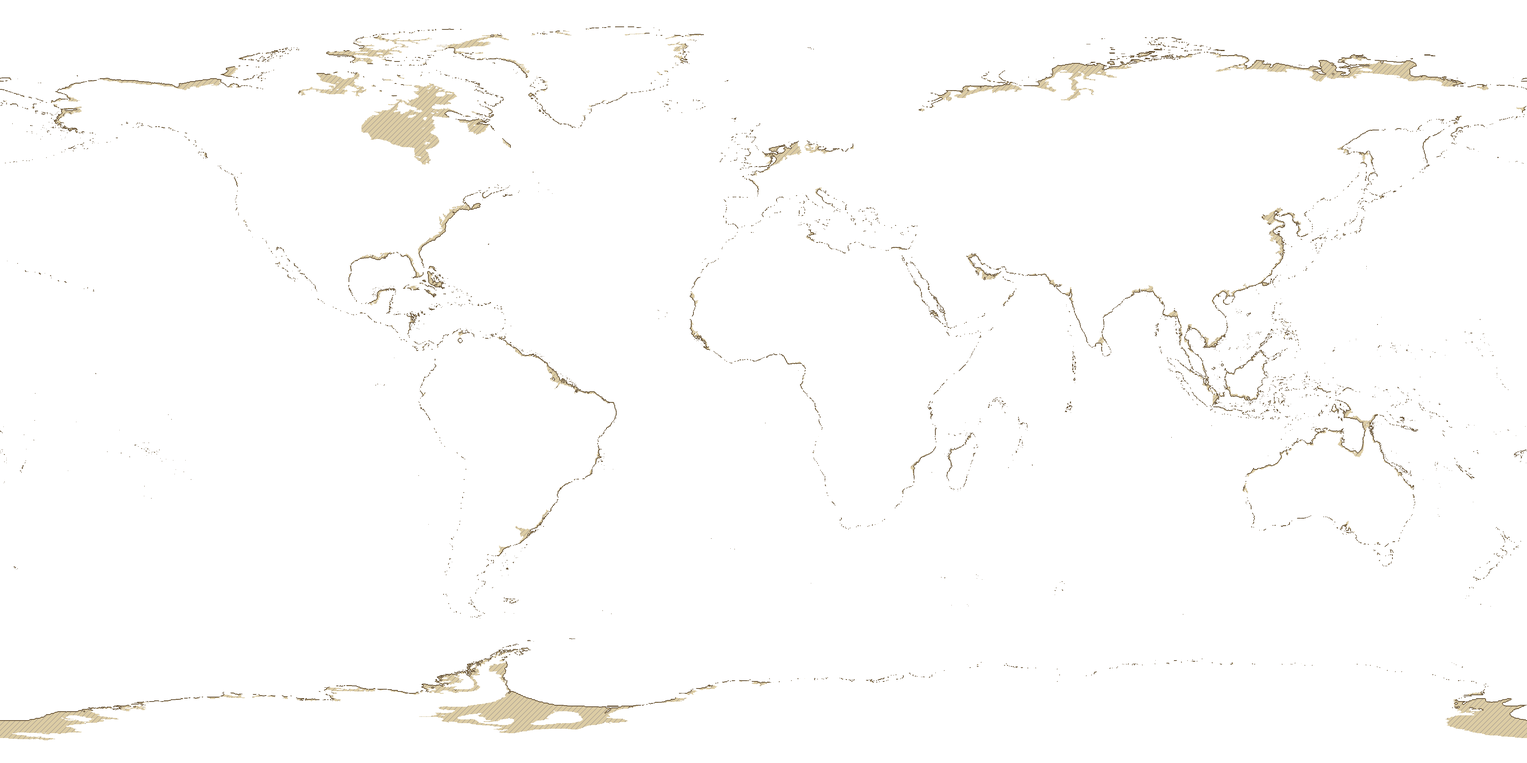
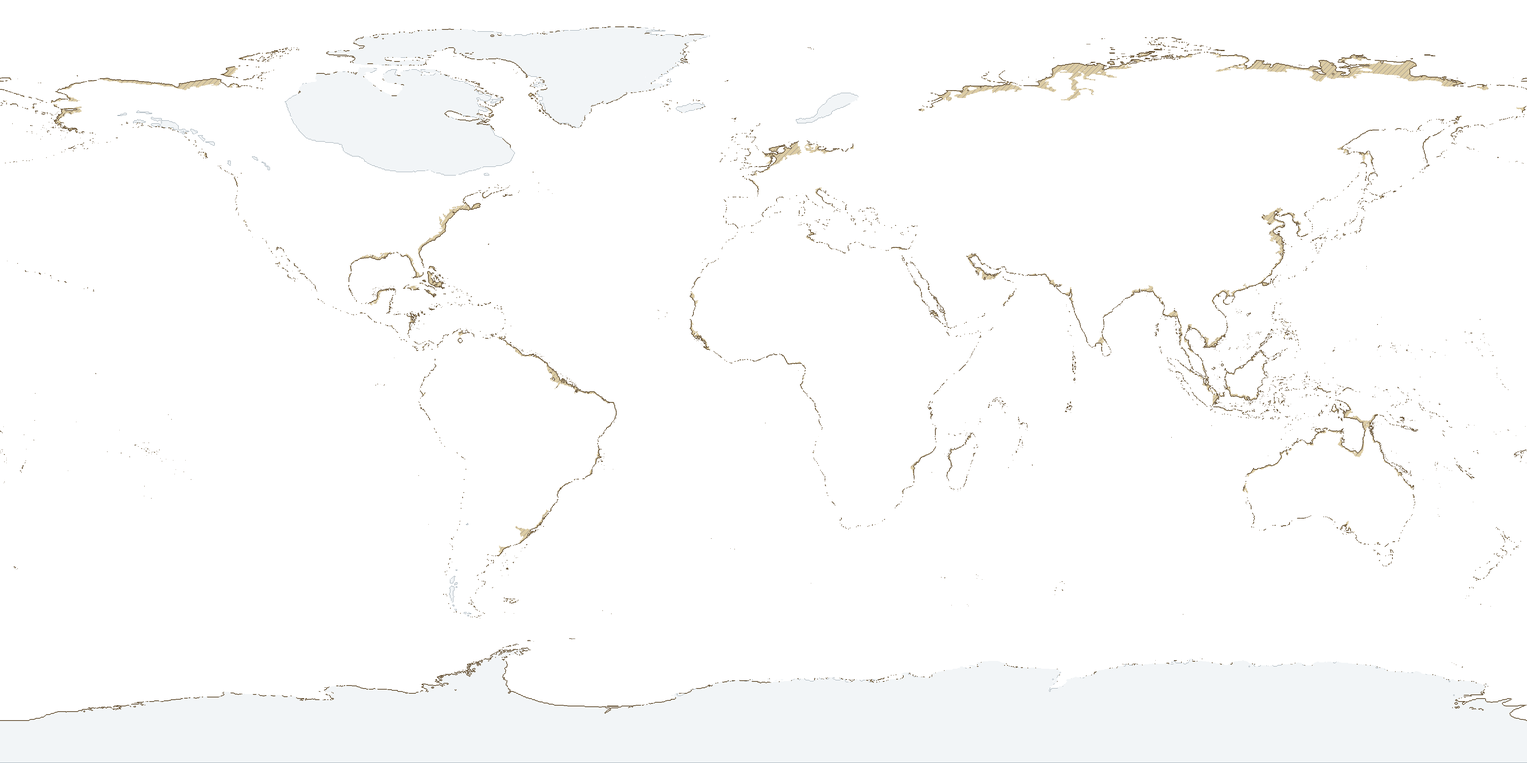
Istidens kust: inlandsisen ritas för sig ur PaleoMIST (#1564) (#1586)
* Istidens kust: inlandsisen ritas för sig (#1564)

Enligt DasKrokodils beslut på #1564 ritas inlandsisen nu i en egen ljus,
nästan vit stil utan snedstreck, ur PaleoMIST 1.0:s istjocklek
(PANGAEA.905800, CC BY 4.0, samma källa som tidigare). Wilmes rutnät har
inget isfält. Varianten utan a1 valdes eftersom den stämmer med Wilmes
hav i Hudson Bay för 42 500 och 40 000 år sedan; texten säger det öppet.

- tools/istidens_kust.py: --ice, hämtar bara isfilen ur zip-filen med
  Range-anrop och kontrollerar licensen; nio bilder ombyggda (41-64 kB)
- data/bildlager.json: fältet keys (rad för torrlagt och för is på fem
  språk), ny caveat och note utan "land eller is"
- teckenförklaringen, schema, validering, CSS, tester och dokumentation
- docs/beslut/2026-11-14-inlandsis-i-istidens-kust.md

Claude-Session: https://claude.ai/code/session_019xNoaDfQRcbY1RwQad4teA

* Istidens kust: rättelser efter granskningen av inlandsisen (#1564)

- caveat på fem språk: den andra varianten (isen kvar över Hudson Bay,
  ner till Dakota) och att linjerna i Människans spridning kan gå över
  isen och visar riktning, inte väg
- ny källa gowan-2021-paleomist-kartor (Zenodo 4559963, CC BY 4.0) i
  sources.json, skivorna och README; licensmanifesten omgjorda
- beslutsfilen: hänvisning till Zenodo 4559963, h5py godkänt av
  DasKrokodil 2026-11-14, Weddell- och Rosshavets inre delar
- verktyget anger paketen numpy, Pillow och h5py i beskrivning och hjälptext
[…]

diff --git a/js/ui/legend.js b/js/ui/legend.js
@@ -104,7 +104,7 @@ export class ReligionLegend {
    * discovery (upptäcktsvyn, #101) = { perspective, credit, sources: [{ title, url }], coverage } eller null.
    * spread (människans spridning, #1094) = { items: [{ kind, certainty, color, title, summary, note, sources }] } eller null;
    * listan är också kartans textalternativ (#1106).
-   * images (bildlagren, #1096) = [{ id, title, text, sources: [{ title, url }] }] eller null: skivor med en text om
+   * images (bildlagren, #1096) = [{ id, title, text, keys: [{ swatch, text }], sources: [{ title, url }] }] eller null: skivor med en text om
    * osäkerheten, till exempel istidens kust, som annars bara syns som färg.
    * Finns inget att förklara döljs rutan.
    */
@@ -148,10 +148,12 @@ export class ReligionLegend {
     }).join('')}</ul></div>`;
     // Bildlagren (#1096): ett tecken som på kartan (ljus yta med snedstreck och mörk kant), osäkerheten i text och källorna.
     // När bara bildlagret förklaras står skivans rubrik i knappen (så att "modell" syns hopfälld i mobil) och upprepas inte.
-    const imagesHtml = !images ? '' : images.map(n => `<div class="rl-images" data-image-note="${esc(n.id)}">
-      ${n.title === title ? '' : `<p class="rl-note rl-row"><span class="swatch rl-shelf" aria-hidden="true"></span><strong>${esc(n.title)}</strong></p>`}
-      <p class="rl-image-text">${n.title === title ? '<span class="swatch rl-shelf" aria-hidden="true"></span> ' : ''}${esc(n.text)}${n.sources.length ? ` ${esc(ui('legend.spreadSources'))} ${
-        n.sources.map((src, k) => `<a class="rl-spread-src" href="${esc(src.url)}" target="_blank" rel="noopener noreferrer">${k + 1}<span class="sr-only"> ${esc(src.title)} ${esc(ui('legend.newTab'))}</span></a>`).join(', ')}.` : ''}</p></div>`).join('');
+    // Har raden keys (#1564) står ett tecken per ytstil på egen rad, och rubriken och texten står utan tecken.
+    const imagesHtml = !images ? '' : images.map(n => { const keyed = !!n.keys?.length; return `<div class="rl-images" data-image-note="${esc(n.id)}">
+      ${n.title === title ? '' : `<p class="rl-note rl-row">${keyed ? '' : '<span class="swatch rl-shelf" aria-hidden="true"></span>'}<strong>${esc(n.title)}</strong></p>`}
+      ${keyed ? n.keys.map(k => `<p class="rl-note rl-row" data-image-key="${esc(k.swatch)}"><span class="swatch rl-${esc(k.swatch)}" aria-hidden="true"></span>${esc(k.text)}</p>`).join('') : ''}
+      <p class="rl-image-text">${n.title === title && !keyed ? '<span class="swatch rl-shelf" aria-hidden="true"></span> ' : ''}${esc(n.text)}${n.sources.length ? ` ${esc(ui('legend.spreadSources'))} ${
+        n.sources.map((src, k) => `<a class="rl-spread-src" href="${esc(src.url)}" target="_blank" rel="noopener noreferrer">${k + 1}<span class="sr-only"> ${esc(src.title)} ${esc(ui('legend.newTab'))}</span></a>`).join(', ')}.` : ''}</p></div>`; }).join('');
     // Vad symbolerna betyder (#271)
     const symbolsHtml = !items.length ? '' : `<p class="rl-note rl-sym-note">${esc(ui('legend.symbolsNote'))}</p>`;
     // Faktarutan på begäran (#308), när någon religion som syns har en

diff --git a/css/style.css b/css/style.css
@@ -17,6 +17,8 @@
   --land: #c8b48a;
   --shelf: #d6c496;         /* istidens kust (#1096): torrlagd yta, samma ton som bilderna i images/lager/istidens-kust-*.webp */
   --shelf-ink: #503a19;     /* istidens kust: snedstreck och kustlinje */
+  --ice: #f1f4f6;           /* istidens kust (#1564): inlandsis i modellen, samma ton som i bilderna */
+  --ice-edge: #788a96;      /* istidens kust: isens kant mot isfritt land */
   --danger: #e0675a;
   --ok: #8fc48e;
   --medal: #10202c;        /* markörernas botten (#242), samma som GROUND i layers/events.js */
@@ -1799,6 +1801,7 @@ details.used-by summary:hover { color: var(--parchment); }
 .religion-legend .rl-image-text { display: block; margin: 3px 0 0; font: 400 12px/1.4 var(--f-body); color: var(--parchment-dim); }
 .religion-legend .rl-image-text .swatch { display: inline-block; vertical-align: -1px; }
 .religion-legend .rl-shelf { border-bottom: 2px solid var(--shelf-ink); box-sizing: border-box; background: repeating-linear-gradient(45deg, var(--shelf-ink) 0 1.2px, var(--shelf) 1.2px 5px); }
+.religion-legend .rl-ice { border: 1px solid var(--ice-edge); box-sizing: border-box; background: var(--ice); }
 .religion-legend .rl-fade { display: block; margin-top: 6px; padding-top: 4px; border-top: 1px solid var(--line); }
 .religion-legend .rl-fade .link-btn { font: inherit; padding: 0; }
 .religion-legend .rl-body > .rl-fade:first-child { margin-top: 0; padding-top: 0; border-top: 0; }

diff --git a/js/layers/images.js b/js/layers/images.js
@@ -44,6 +44,8 @@ export function boundsRect(bounds, W, H) {
 export function imageNotes(built, srcById = {}) {
   return built.filter(b => b.layer.active?.caveat).map(({ row, layer: { active: x } }) => ({
     id: row.id, title: t(x.title ?? row.name), text: t(x.caveat),
+    // Radens tecken (#1564): en rad per ytstil i bilden, till exempel torrlagt land och inlandsis
+    keys: (row.keys ?? []).map(k => ({ swatch: k.swatch, text: t(k.text) })),
     sources: (x.sources ?? []).map(id => srcById[id]).filter(Boolean).map(src => ({ title: src.title, url: src.url })),
   }));
 }

diff --git a/tools/istidens_kust.py b/tools/istidens_kust.py
@@ -8,24 +8,37 @@ på ett rutnät om 1/8 grad, 2880 × 1400 punkter, −85,9375 till 88,9375 grade
 big-endian och läses som datamängdens egen grd_in.m (Fortran-poster: n, m, latituder, longituder, dt, nob,
 sedan hz som float och mz som long).
 
-Bilden visar bara skillnaden mot i dag i samma modell: ytor som är hav i steget 0 år sedan men inte var hav i
-det valda steget. De fylls med en ljusare landton med glesa snedstreck (tolkning, beslutet 2026-11-13 om
-osäkerhetens språk), och den modellerade kusten ritas som en mörk linje. Allt annat är genomskinligt, så att
-grundkartans nutida land syns under. Bilden är ekvirektangulär 4096 × 2048 (−180…180, 90…−90), som
-lagerbilden (beslut 1), och sparas som WebP med alfakanal i images/lager/.
+Masken skiljer inte land från is (land har alltid hz = 2,0). Inlandsisen (#1564) tas därför ur PaleoMIST 1.0 själv
+(Gowan 2019, PANGAEA, doi:10.1594/PANGAEA.905800, CC BY 4.0): fältet ice_thickness ("grounded ice thickness", meter)
+i global_grid/reconstruction_0.25_degree.nc i datamängdens zip-fil, ett rutnät om 1/4 grad med ett tidssteg vart
+2 500:e år. Filen är den "minimala" varianten för Nordamerika under MIS 3, där Hudson Bay blir isfri en tid (varianten
+"a1" har is över Hudson Bay hela tiden). Wilmes rutnät säger inte vilken variant de bygger på, men deras mask har
+hav i Hudson Bay för 42 500 och 40 000 år sedan, som den minimala varianten och inte som a1 (jämfört 2026-11-14).
+
+Bilden visar skillnaden mot i dag i samma modell och isen: ytor som är hav i steget 0 år sedan men inte var hav i
+det valda steget fylls med en ljusare landton med glesa snedstreck (tolkning, beslutet 2026-11-13 om
+osäkerhetens språk), och den modellerade kusten ritas som en mörk linje. Inlandsisen (istjocklek över ICE_MIN) ritas
+ovanpå i en ljus, nästan vit ton utan snedstreck och med en grå kant, både på dagens land och på torrlagd havsbotten,
+men aldrig där masken har hav. Allt annat är genomskinligt, så att grundkartans nutida land syns under. Bilden är
+ekvirektangulär 4096 × 2048 (−180…180, 90…−90), som lagerbilden (beslut 1), och sparas som WebP med alfakanal i
+images/lager/.
 
 Kör från projektets rot:
-    python3 tools/istidens_kust.py --grids <katalog> [--steps 10 15 20 30 40 50 60 70 80]
+    python3 tools/istidens_kust.py --grids <katalog> --ice <fil.nc> [--steps 10 15 20 30 40 50 60 70 80]
 Saknas en fil i <katalog> hämtas den från Zenodo (cirka 32 MB per steg) och kontrolleras mot md5-summan i
-Zenodos API. Lägg inte rutnäten i repot. Kräver numpy och Pillow (som tools/riken.py och tools/bilder_in.py).
+Zenodos API. Saknas <fil.nc> hämtas bara den filen (554 MB) ur PANGAEA:s zip-fil (3,5 GB) med Range-anrop. Lägg inte
+rutnäten i repot. Kräver Python-paketen numpy, Pillow och h5py (pip install numpy pillow h5py); h5py läser isfilen,
+som är NetCDF 4, och godkändes som beroende för verktyget av DasKrokodil 2026-11-14.
 Skivorna i data/bildlager.json (raden "istidens-kust") skrivs för hand efter körningen; verktyget skriver ut
 filerna, storlekarna och hur stor del av bilden som är torrlagd.
 """
 import argparse
 import hashlib
 import json
+import io
 import struct
 import urllib.request
+import zipfile
 from pathlib import Path
 
 import numpy as np
@@ -37,6 +50,10 @@ RECORD = 'https://zenodo.org/api/records/8147509'
 FILE_URL = 'https://zenodo.org/records/8147509/files/{name}?download=1'
 NAME = 'grid_gowan_glacial_1_8_{k}kyrBP_flon'
 W, H = 4096, 2048
+ICE_ZIP = 'https://hs.pangaea.de/Maps/Global_Ice_Sheets/Gowan_ice_reconstruction.zip'
+ICE_MEMBER = 'ice_reconstruction/global_grid/reconstruction_0.25_degree.nc'
+ICE_META = 'https://doi.pangaea.de/10.1594/PANGAEA.905800?format=metainfo_xml'
+ICE_MIN = 1.0  # meter: tunnare räknas inte som is (fältet har små negativa värden från omprojiceringen)
 
 # Färgerna följer grundkartan (js/globe.js: land #cdb88d, kust rgba(80,58,25,…)), men ljusare, så att den
 # modellerade kusten skiljer sig från dagens land. Snedstrecken säger att ytan är en tolkning.
@@ -44,6 +61,10 @@ FILL = (214, 196, 150, 220)
 HATCH = (80, 58, 25, 120)
 COAST = (80, 58, 25, 235)
 HATCH_EVERY, HATCH_WIDTH, COAST_WIDTH = 14, 2, 3
+# Inlandsisen (#1564): ljus, nästan vit, utan snedstreck, med en grå kant mot land så att den skiljer sig från
+# både den torrlagda ytan och grundkartans land (css/style.css: --ice, --ice-edge).
+ICE = (241, 244, 246, 235)
+ICE_EDGE = (120, 138, 150, 220)
 
 
 def md5_of(path):
@@ -63,6 +84,54 @@ def fetch(name, folder, checksums):
     if want and md5_of(path) != want:
         raise SystemExit(f'{name}: md5 stämmer inte med Zenodo ({want})')
     return path
+
+
+class _RangeFile(io.RawIOBase):
+    """Läser en fil på webben med Range-anrop, så att zipfile kan plocka ut en enda fil ur PANGAEA:s zip-fil."""
+
+    def __init__(self, url):
+        self.url, self.pos = url, 0
+        with urllib.request.urlopen(urllib.request.Request(url, method='HEAD')) as r:
+            self.size = int(r.headers['Content-Length'])
+
+    def readable(self): return True
+    def seekable(self): return True
+    def tell(self): return self.pos
+
+    def seek(self, offset, whence=0):
+        self.pos = offset if whence == 0 else self.pos + offset if whence == 1 else self.size + offset
+        return self.pos
+
+    def readinto(self, buf):
+        if self.pos >= self.size or not len(buf):
+            return 0
+        end = min(self.pos + len(buf), self.size) - 1
+        with urllib.request.urlopen(urllib.request.Request(self.url, headers={'Range': f'bytes={self.pos}-{end}'})) as r:
+            data = r.read()
+        buf[:len(data)] = data
+        self.pos += len(data)
+        return len(data)
+
+
+def fetch_ice(path):
+    """Isfilen ur PaleoMIST 1.0; hämtas ur zip-filen om den saknas. Stannar om licensen på PANGAEA har ändrats."""
+    with urllib.request.urlopen(ICE_META) as r:
+        if b'<md:label>CC-BY-4.0</md:label>' not in r.read():
+            raise SystemExit('PaleoMIST 1.0 har inte längre licensen CC BY 4.0 på PANGAEA: stanna och kontrollera.')
+    if not path.exists():
+        print(f'Hämtar {ICE_MEMBER} ur {ICE_ZIP} …')
+        with zipfile.ZipFile(io.BufferedReader(_RangeFile(ICE_ZIP), buffer_size=1 << 23)) as z, \
+                z.open(ICE_MEMBER) as src, open(path, 'wb') as dst:
+            for chunk in iter(lambda: src.read(1 << 22), b''):
+                dst.write(chunk)
+    return path
+
+
+def read_ice(path):
+    """(latituder, longituder, tider i år före 1950, istjocklek[tid, latitud, longitud]) ur isfilen."""
+    import h5py  # bara för isfilen, som är NetCDF 4 (HDF5)
+    f = h5py.File(path, 'r')
+    return f['lat'][:], f['lon'][:], -f['time'][:], f['ice_thickness']
 
 
 def read_grid(path):
@@ -145,10 +214,11 @@ def dilate(a, r):
     return out
 
 
-def render(shown, then_sea):
-    """shown = andel torrlagt som visas, then_sea = andel hav i steget, båda samplade till lagerbilden."""
+def render(shown, then_sea, ice):
+    """shown = andel torrlagt som visas, then_sea = andel hav i steget, ice = andel is, samplade till lagerbilden."""
     exposed = np.nan_to_num(shown) >= 0.5
     then_water = np.nan_to_num(then_sea) >= 0.5
+    iced = (np.nan_to_num(ice) >= 0.5) & ~then_water
     # Kusten: torrlagda pixlar som gränsar till dåtidens hav, förtjockad till COAST_WIDTH
     edge = exposed & (np.roll(then_water, 1, 0) | np.roll(then_water, -1, 0) | np.roll(then_water, 1, 1) | np.roll(then_water, -1, 1))
     edge = dilate(edge, COAST_WIDTH // 2) & ~then_water | edge
@@ -157,13 +227,21 @@ def render(shown, then_sea):
     img = np.zeros((H, W, 4), np.uint8)
     img[exposed] = FILL
     img[hatch] = HATCH
+    img[iced] = ICE
+    # Isens kant mot isfritt land (inte mot hav, där kustlinjen står), en pixel bred
+    land = ~iced & ~then_water
+    rim = iced & (np.roll(land, 1, 0) | np.roll(land, -1, 0) | np.roll(land, 1, 1) | np.roll(land, -1, 1))
+    img[rim] = ICE_EDGE
     img[edge] = COAST
-    return img, exposed
+    return img, exposed, iced
 
 
 def main():
-    ap = argparse.ArgumentParser(description=__doc__.splitlines()[0])
+    ap = argparse.ArgumentParser(description=__doc__.splitlines()[0],
+                                 epilog='Kräver Python-paketen numpy, Pillow och h5py (pip install numpy pillow h5py).')
     ap.add_argument('--grids', required=True, type=Path, help='katalog för rutnäten (hämtas dit om de saknas)')
+    ap.add_argument('--ice', required=True, type=Path,
+                    help='isfilen reconstruction_0.25_degree.nc ur PaleoMIST 1.0 (hämtas dit om den saknas)')
     ap.add_argument('--steps', nargs='+', default=['10', '15', '20', '30', '40', '50', '60', '70', '80'],
                     help='tidssteg i tusental år före 1950 (Gowan-serien har vart 2,5:e, 0–80)')
     args = ap.parse_args()
@@ -174,16 +252,23 @@ def main():
     if record['metadata'].get('license', {}).get('id') != 'cc-by-4.0':
         raise SystemExit('Datamängdens licens är inte längre CC BY 4.0 på Zenodo: stanna och kontrollera.')
     lats, lons, now = read_grid(fetch(NAME.format(k='0'), args.grids, checksums))
+    ice_lats, ice_lons, ice_years, thickness = read_ice(fetch_ice(args.ice))
     OUT.mkdir(parents=True, exist_ok=True)
     for k in args.steps:
         la, lo, mz = read_grid(fetch(NAME.format(k=k), args.grids, checksums))
         if not (np.array_equal(la, lats) and np.array_equal(lo, lons)):
             raise SystemExit(f'Steget {k}: rutnätet skiljer sig från steget 0')
         shown, enclosed = exposed_on_grid(mz, now, lats, lons)
-        img, exposed = render(sample(shown, lats, lons), sample(mz == 1, lats, lons))
+        hit = np.flatnonzero(ice_years == float(k) * 1000)
+        if len(hit) != 1:
+            raise SystemExit(f'Steget {k}: isfilen saknar tidssteget')
+        iced_grid = np.nan_to_num(thickness[hit[0]]) > ICE_MIN
+        img, exposed, iced = render(sample(shown, lats, lons), sample(mz == 1, lats, lons),
+                                    sample(iced_grid, ice_lats, ice_lons))
         path = OUT / f'istidens-kust-{k.replace(".", "-")}ka.webp'
         Image.fromarray(img, 'RGBA').save(path, 'WEBP', lossless=True, quality=100, method=6)
         print(f'{path.relative_to(ROOT)}: {path.stat().st_size // 1024} kB, torrlagt {exposed.mean() * 100:.2f} % av bilden, '
+              f'is {iced.mean() * 100:.2f} % av bilden, '
               f'avskilt hav i dag {enclosed.mean() * 100:.2f} % av rutnätet')
 
 

diff --git a/scripts/validate-site.py b/scripts/validate-site.py
@@ -425,7 +425,7 @@ for path, tour in tours:
     validate_schema_file(path, tour, 'tour.schema.json')
 
 # 8b2. Bildlager (#54, formatet @2 i #1325): schemat och det som den lilla schemakontrollen inte kan uttrycka.
-IMAGE_ROW_KEYS = {'id', 'kind', 'aliases', 'group', 'name', 'note', 'label', 'slices'}
+IMAGE_ROW_KEYS = {'id', 'kind', 'aliases', 'group', 'name', 'note', 'label', 'keys', 'slices'}
 IMAGE_SLICE_KEYS = {'id', 'title', 'format', 'file', 'width', 'height', 'from', 'to', 'bounds', 'opacity',
                     'caveat', 'sources', 'review', 'license'}
 IMAGE_MAX_PIXELS = 4096 * 2048  # en avkodad bild på 4096 × 2048 tar cirka 32 MB i minnet

diff --git a/README.md b/README.md
@@ -156,7 +156,7 @@ tools/religioner.py   bygger religionslagret (data/religions.json) ur Cliopatria
 tools/religioner_riken.py  bygger rikenas gränser för religionslagrets klickruta ur Cliopatria
 tools/matning_hopp.mjs mäter hur länge sidan inte svarar vid ett långt hopp i tiden (Playwright, #692)
 tools/license_manifests.py  genererar data/licenses.json och images/licenses.json; validate-site.py kontrollerar att de är aktuella
-tools/istidens_kust.py  gör bilderna till bildlagret Istidens kust ur PaleoMIST 1.0 via Wilmes m.fl. (Zenodo 8147509); hämtar rutnäten vid behov, kräver numpy och Pillow (#1096)
+tools/istidens_kust.py  gör bilderna till bildlagret Istidens kust ur PaleoMIST 1.0 via Wilmes m.fl. (Zenodo 8147509); inlandsisen ur PaleoMIST:s istjocklek (#1564); hämtar rutnäten och isfilen vid behov, kräver numpy, Pillow och h5py (#1096)
 data/empires/         riken med utbredning per period, en fil per rike och index.json (Cliopatria)
 data/borders.json     dagens landsgränser (Natural Earth)
 data/routes/          vägar och resor (lagertyp linje): index.json och en fil per resa eller väg
@@ -229,7 +229,7 @@ Se också [licenssammanställningen](CONTENT-LICENSE.md), [tredjepartsnotiserna]
 - **Grundkartan** i `data/land.json` (1:50m), den finare kusten i `data/land-10m.json` (1:10m, bara för det skarpa utsnittet vid inzoomning) och **dagens landsgränser** i `data/borders.json` bygger på [Natural Earth](https://www.naturalearthdata.com/) (public domain) via world-atlas. **Platsernas gränser** i `data/platser.json` (#579) är Natural Earth admin 0 för länder och Natural Earth 1:10m admin 1 (`ne_10m_admin_1_states_provinces` 5.1.2, public domain) för län, uttagna med `tools/platser_gransar.py`; kortet för Skåne anger att konturen är Skåne län och inte landskapet.
 - **Rikenas utbredning** i `data/empires/` är ett förenklat utdrag ur [Cliopatria](https://github.com/Seshat-Global-History-Databank/cliopatria) från Seshat Global History Databank, licensierat under [CC BY 4.0](https://creativecommons.org/licenses/by/4.0/). Ändringar: bara de riken som listas i `data/empires/index.json` är med, geometrin är förenklad och perioder med nästan samma gräns är sammanslagna (`tools/riken.py`).
 - **Nattljus 2016** i `images/lager/nattljus-2016.jpg` kommer från [NASA Earth Observatory: Black Marble](https://science.nasa.gov/earth/earth-observatory/earth-at-night/maps/) och är **public domain i USA enligt NASA:s riktlinjer för bilder**. NASA:s logotyp och märken är skyddade; bilden innehåller ingen NASA-logotyp. Bilden är NASA:s globala JPEG i 3600 × 1800, utan innehållsliga ändringar.
-- **Istidens kust** i `images/lager/istidens-kust-*.webp` (#1096) bygger på rutnäten med land och hav för serien Gowan i Wilmes, Pedersen, Schindelegger och Green (2023), [Late Pleistocene evolution of tides and tidal dissipation: tidal simulations](https://zenodo.org/records/8147509) (Zenodo, [CC BY 4.0](https://creativecommons.org/licenses/by/4.0/)), som i sin tur bygger på inlandsis- och topografirekonstruktionen PaleoMIST 1.0: Gowan (2019), [Global ice sheet reconstruction for the past 80000 years](https://doi.org/10.1594/PANGAEA.905800) (PANGAEA, CC BY 4.0), och Gowan m.fl. (2021), [A new global ice sheet reconstruction for the past 80 000 years](https://doi.org/10.1038/s41467-021-21469-w) (*Nature Communications* 12, 1199, CC BY 4.0). Ändringar: nio tidssteg, bara ytor som är hav i dag men inte i modellen (med snedstreck) och den modellerade kustlinjen, omräknade till en ekvirektangulär bild 4096 × 2048; Kaspiska havet och Svarta havet, som saknar förbindelse med världshavet i modellens rutnät, är inte med (`tools/istidens_kust.py`).
+- **Istidens kust** i `images/lager/istidens-kust-*.webp` (#1096) bygger på rutnäten med land och hav för serien Gowan i Wilmes, Pedersen, Schindelegger och Green (2023), [Late Pleistocene evolution of tides and tidal dissipation: tidal simulations](https://zenodo.org/records/8147509) (Zenodo, [CC BY 4.0](https://creativecommons.org/licenses/by/4.0/)), som i sin tur bygger på inlandsis- och topografirekonstruktionen PaleoMIST 1.0: Gowan (2019), [Global ice sheet reconstruction for the past 80000 years](https://doi.org/10.1594/PANGAEA.905800) (PANGAEA, CC BY 4.0), och Gowan m.fl. (2021), [A new global ice sheet reconstruction for the past 80 000 years](https://doi.org/10.1038/s41467-021-21469-w) (*Nature Communications* 12, 1199, CC BY 4.0). De två varianterna för Hudson Bay beskrivs i Gowan (2021), [Plots of global paleotopography for the past 80000 years from the PaleoMIST 1.0 reconstruction](https://zenodo.org/records/4559963) (Zenodo, CC BY 4.0). Ändringar: nio tidssteg, bara ytor som är hav i dag men inte i modellen (med snedstreck), den modellerade kustlinjen och inlandsisen ur PaleoMIST:s istjocklek (`global_grid/reconstruction_0.25_degree.nc`, varianten utan a1, #1564), omräknade till en ekvirektangulär bild 4096 × 2048; Kaspiska havet och Svarta havet, som saknar förbindelse med världshavet i modellens rutnät, är inte med (`tools/istidens_kust.py`).
 - **Faktarutorna om riken** (`facts` i `data/empires/index.json`) är egna korta sammanfattningar av Wikipedias artiklar om rikena (CC BY-SA). Medeltidens riken (#69) är dessutom kontrollerade mot World History Encyclopedia (CC BY-NC-SA, bara länkad, ingen text kopierad), och de tidigmoderna rikena (#70) mot World History Encyclopedia eller Wikidata (CC0). Kolonialvälden och moderna imperier (#71) bygger på Wikipedia, för det nederländska och tyska väldet, Japan och Etiopien kompletterat med World History Encyclopedia (bara länkad). Artiklarna länkas från rutorna och från källregistret.
 - **Herodotos text** (Macaulays översättning, bok 9, [Project Gutenberg](https://www.gutenberg.org/ebooks/2456)) är public domain och används bara som länkad källa för siffrorna i anteckningen om slaget vid Plataiai (#941); ingen text är kopierad.
 - **Nordiska uppslagsverk** (Platser-piloten, #579): [Lex.dk](https://lex.dk/) (Den Store Danske, med artiklar från danmarkshistorien.dk) och [Store norske leksikon](https://snl.no/) är märkta "begränsad återanvändning" och används bara som länkade källor för årtal och plats; ingen text är kopierad. Nordisk familjebok (andra upplagan, Uggleupplagan, på [Projekt Runeberg](https://runeberg.org/)) är public domain och används också bara som länkad källa med egna sammanfattningar.

diff --git a/docs/beslut/2026-11-14-inlandsis-i-istidens-kust.md b/docs/beslut/2026-11-14-inlandsis-i-istidens-kust.md
@@ -1,0 +1,19 @@
+# Inlandsisen i bildlagret Istidens kust (#1564)
+
+**Datum:** 2026-11-14 (DasKrokodils beslut på #1564: isen ritas för sig om PaleoMIST har isdata med förenlig licens; stilen ljus, nästan vit, utan snedstreck, med egen rad i teckenförklaringen)
+
+## Beslut
+1. **Isen ritas för sig.** Bilderna i `images/lager/istidens-kust-*.webp` har tre ytstilar: torrlagd havsbotten (ljus landton med snedstreck, som förut), inlandsis (`#f1f4f6`, nästan vit, utan snedstreck, med en grå kant `#788a96` mot isfritt land) och kustlinjen. Isen ritas både på dagens land och på torrlagd havsbotten, men aldrig där Wilmes mask har hav, så att kusten och isen inte säger emot varandra. Ändrar punkt 4 i [beslutet om istidens kust](2026-11-14-istidens-kust.md).
+2. **Källan för isen är PaleoMIST 1.0 själv:** fältet `ice_thickness` ("grounded ice thickness", meter) i `global_grid/reconstruction_0.25_degree.nc` i Gowan (2019) på PANGAEA (doi:10.1594/PANGAEA.905800). PANGAEA anger licensen CC-BY-4.0, och sidan säger: "These datasets include ice thickness calculated using the program ICESHEET … NetCDF files of the ice thickness … are included at 1 and 0.25 degree grids". Det är samma källa som redan står i `data/sources.json` (`gowan-2019-paleomist-data`), så ingen ny källa eller licens tillkommer. Is räknas där istjockleken är över 1 meter. Wilmes rutnät (Zenodo 8147509) har inget isfält: masken `mz` är bara 0 eller 1, och vattendjupet `hz` är alltid 2,0 på land.
+3. **Varianten utan a1.** PaleoMIST har två varianter av Nordamerikas is under MIS 3. Gowans kartor på Zenodo ([4559963](https://zenodo.org/records/4559963), CC BY 4.0, källan `gowan-2021-paleomist-kartor`) beskriver dem: i `paleo_topography` är Hudson Bay "deglaciated at 42500 years ago", och i `paleo_topography_a1` ligger isen kvar över Hudson Bay med "the ice sheet reaching into the Dakotas". Datamängdens readme säger detsamma, och filerna för den andra varianten slutar på "a1". Wilmes m.fl. säger inte vilken variant deras Gowan-serie bygger på (Zenodo-beskrivningen säger bara "the Gowan and ICE-6G bathymetries", och artikeln gick inte att öppna). Valet gjordes därför genom jämförelse, 2026-11-14, i rutan 56–64° N, 94–79° V: Wilmes mask har hav på 55 % av rutan för 42 500 år sedan och 8 % för 40 000 år sedan. Den minimala varianten har där 44 % respektive 6 % isfritt hav, medan a1 har is på hela rutan. I övriga jämförda steg (0–80 000 år) är varianterna lika i rutan. Därför används varianten utan a1, och texten i teckenförklaringen säger hur valet gjordes och att isen i den andra varianten ligger kvar över Hudson Bay och når ner till Dakota.
+4. **Teckenförklaringen** får en rad per ytstil, med fältet `keys` på raden i `data/bildlager.json` (`shelf` och `ice`, text på fem språk). Texten "land eller is" är borttagen. `caveat` säger nu att vita ytor är inlandsis i modellen, att Grönland och Antarktis har is också i dag, hur varianten valdes, och att modellen bara har de stora inlandsisarna (Nordamerika med Grönland, Eurasien, Antarktis och Patagonien, mappnamnen i datamängden), så att mindre glaciärer, till exempel i Alperna, saknas. Den säger också att linjerna i lagret Människans spridning kan gå över isen och visar riktning, inte väg.
+5. **Verktyget** `tools/istidens_kust.py` tar `--ice <fil.nc>`. Saknas filen hämtas bara den (554 MB) ur PANGAEA:s zip-fil på 3,5 GB med Range-anrop, efter en kontroll av att licensen fortfarande är CC BY 4.0. Isfilen är NetCDF 4, så verktyget kräver h5py utöver numpy och Pillow. DasKrokodil godkände h5py som beroende för verktyget 2026-11-14; det gäller bara verktyget, inte sidan. Rådata läggs aldrig i repot.
+
+## Motivering
+Utan isen såg Hudson Bay, Östersjön och Barents hav ut som torrt land vid 20 000 år sedan, fast modellen täcker dem med is. Det är fel för en elev som ser kartan. Isen kommer ur samma rekonstruktion som kusten och har samma licens, så den rättar bilden utan att lägga till en ny källa.
+
+## Kontrollerat i bilderna
+Vid 20 000 år sedan är Hudson Bay, Östersjön, Bottniska viken, Barents hav och de inre delarna av Weddellhavet och Rosshavet (söder om cirka 75° S) is, och Beringia, Sunda och Sahul är torrlagt land utan is (webbläsartestet "istidens kust" kontrollerar Hudson Bay, Östersjön, Barents hav, Beringia, Sunda och Sahul). Vid kanten av Antarktis kan Wilmes mask ha hav där PaleoMIST har is; där visas havet, enligt punkt 1.
+
+## Berör
+`tools/istidens_kust.py`, `images/lager/istidens-kust-*.webp`, `data/bildlager.json`, `data/sources.json` (`gowan-2021-paleomist-kartor`), `schemas/bildlager.schema.json`, `scripts/validate-site.py`, `js/layers/images.js`, `js/ui/legend.js`, `css/style.css`, `tests/images.test.mjs`, `tests/webblasare.mjs`, `README.md`, `THIRD-PARTY-NOTICES.md`, `docs/datamodell.md`, #1564. Ändrar punkt 4 och 6 och den första kända begränsningen i [beslutet om istidens kust](2026-11-14-istidens-kust.md).

diff --git a/docs/datamodell.md b/docs/datamodell.md
@@ -787,6 +787,7 @@ Färdigprojicerade SVG-banor i 4096 × 2048 (`path`, `width`, `height`) från Na
 | `name` | ja | Radens namn, på alla fem språken. |
 | `note` | nej | Förklaringen efter namnet i Lager, på alla fem språken. |
 | `label` | ja när `kind` är `grund` | Den synliga märkningen av en växlande grundkarta, på alla fem språken. En grundkarta som inte är dagens ska alltid vara märkt. |
+| `keys` | nej | Teckenförklaringens rader för radens ytstilar (#1564): en lista med `swatch` (`shelf`: ljus yta med snedstreck, `ice`: ljus, nästan vit yta med grå kant) och `text` på alla fem språken. Varje rad står med sitt tecken i teckenförklaringen när en skiva med `caveat` syns. Saknas fältet visas ett tecken (`shelf`) framför rubriken. |
 | `slices` | ja, minst en | Tidsskivorna. Inom en rad får perioderna inte överlappa, så högst en skiva gäller ett visst år. |
 
 **En post i `slices` är en bild eller en vektor för en period.**
@@ -816,7 +817,7 @@ Färdigprojicerade SVG-banor i 4096 × 2048 (`path`, `width`, `height`) från Na
 
 **Kontroller.** `scripts/validate-site.py` kör schemat och det schemat inte kan uttrycka: okända fält, upptagna id och alias, gruppen, `label` för `grund`, bildens storlek, `bounds`, perioder som överlappar, och att filer och källor finns. `tests/validate-schema-test.py` godkänner exempelfilen `tests/fixtures/bildlager-exempel.json`, som övar hela formatet, och underkänner avsiktliga fel. `tests/images.test.mjs` kontrollerar urvalet av rader och skivor, rutan för `bounds`, rensningen av bilder och att varje lager i länkarkivet finns kvar, direkt eller som alias.
 
-Första raden är NASA Black Marble 2016 (`nattljus`), från 2016 och framåt. Den andra är **Istidens kust** (`istidens-kust`, #1096): nio skivor med den modellerade kusten 10 000–80 000 år sedan ur PaleoMIST 1.0 (Gowan m.fl. 2021) via rutnäten i Wilmes m.fl. (2023), gjorda med `tools/istidens_kust.py`. Modellens år är år före 1950 (BP), så skivan för 20 000 år sedan börjar år 1950 − 25 000 = −23 050; varje skiva gäller fram till mitten mot nästa steg, den yngsta till 7 500 år sedan och den äldsta från 81 250 år sedan. Varje skiva har `caveat` om att kusten är modellerad och att kartans kust annars är nutida ([beslut 2026-11-14](beslut/2026-11-14-istidens-kust.md)).
+Första raden är NASA Black Marble 2016 (`nattljus`), från 2016 och framåt. Den andra är **Istidens kust** (`istidens-kust`, #1096): nio skivor med den modellerade kusten 10 000–80 000 år sedan ur PaleoMIST 1.0 (Gowan m.fl. 2021) via rutnäten i Wilmes m.fl. (2023), gjorda med `tools/istidens_kust.py`. Modellens år är år före 1950 (BP), så skivan för 20 000 år sedan börjar år 1950 − 25 000 = −23 050; varje skiva gäller fram till mitten mot nästa steg, den yngsta till 7 500 år sedan och den äldsta från 81 250 år sedan. Varje skiva har `caveat` om att kusten är modellerad och att kartans kust annars är nutida ([beslut 2026-11-14](beslut/2026-11-14-istidens-kust.md)). Inlandsisen ritas för sig i en ljus, nästan vit ton ur PaleoMIST:s istjocklek, med en egen rad i teckenförklaringen (`keys`, [beslut 2026-11-14 om inlandsisen](beslut/2026-11-14-inlandsis-i-istidens-kust.md), #1564).
 
 ## `turer/`: guidade turer (#47)
 

diff --git a/THIRD-PARTY-NOTICES.md b/THIRD-PARTY-NOTICES.md
@@ -17,7 +17,7 @@ Licenserna nedan gäller respektive komponent eller datakälla, inte hela Histor
 |---|---|---|
 | Natural Earth 1:50m och 1:10m | Underlag till grundkartan (1:50m), den finare kusten i det skarpa utsnittet vid inzoomning (1:10m, `data/land-10m.json`) dagens landsgränser via world-atlas 2.0.2 och Europas gräns i upptäcktsvyn (`data/upptackt-europa.json`, 1:50m admin 0 countries, #872) och platsernas gränser (`data/platser.json`, #579: admin 0 via world-atlas för länder, och 1:10m admin 1 version 5.1.2 för län, som Skåne län, med `tools/platser_gransar.py`) | Natural Earth-data är [public domain](https://www.naturalearthdata.com/about/terms-of-use/). [world-atlas 2.0.2:s paketmetadata](https://github.com/topojson/world-atlas/blob/v2.0.2/package.json) anger ISC för paketets kod, enligt dess [licensfil](https://github.com/topojson/world-atlas/blob/v2.0.2/LICENSE); koden ingår inte här. |
 | Cliopatria | Underlag till rikenas och religionslagrens gränser | [CC BY 4.0](https://github.com/Seshat-Global-History-Databank/cliopatria/blob/main/LICENSE.md); [datasetpost på Zenodo](https://zenodo.org/records/13363121). Projektets urval och bearbetning beskrivs i [README](./README.md#licenser). |
-| Wilmes m.fl. (2023), tidvattensimuleringar, och PaleoMIST 1.0 (Gowan 2019, Gowan m.fl. 2021) | Bildlagret Istidens kust (`images/lager/istidens-kust-*.webp`, #1096): rutnäten med land och hav för serien Gowan, gjorda till bilder med `tools/istidens_kust.py` | [CC BY 4.0](https://creativecommons.org/licenses/by/4.0/): [datamängden på Zenodo](https://zenodo.org/records/8147509), [PaleoMIST 1.0 på PANGAEA](https://doi.org/10.1594/PANGAEA.905800) och [artikeln](https://doi.org/10.1038/s41467-021-21469-w). Bearbetningen beskrivs i [README](./README.md#licenser). |
+| Wilmes m.fl. (2023), tidvattensimuleringar, och PaleoMIST 1.0 (Gowan 2019, Gowan m.fl. 2021) | Bildlagret Istidens kust (`images/lager/istidens-kust-*.webp`, #1096): rutnäten med land och hav för serien Gowan och PaleoMIST:s istjocklek (#1564), gjorda till bilder med `tools/istidens_kust.py` | [CC BY 4.0](https://creativecommons.org/licenses/by/4.0/): [datamängden på Zenodo](https://zenodo.org/records/8147509), [PaleoMIST 1.0 på PANGAEA](https://doi.org/10.1594/PANGAEA.905800) och [artikeln](https://doi.org/10.1038/s41467-021-21469-w). Bearbetningen beskrivs i [README](./README.md#licenser). |
 
 ## Länkade kontrollkällor
 
